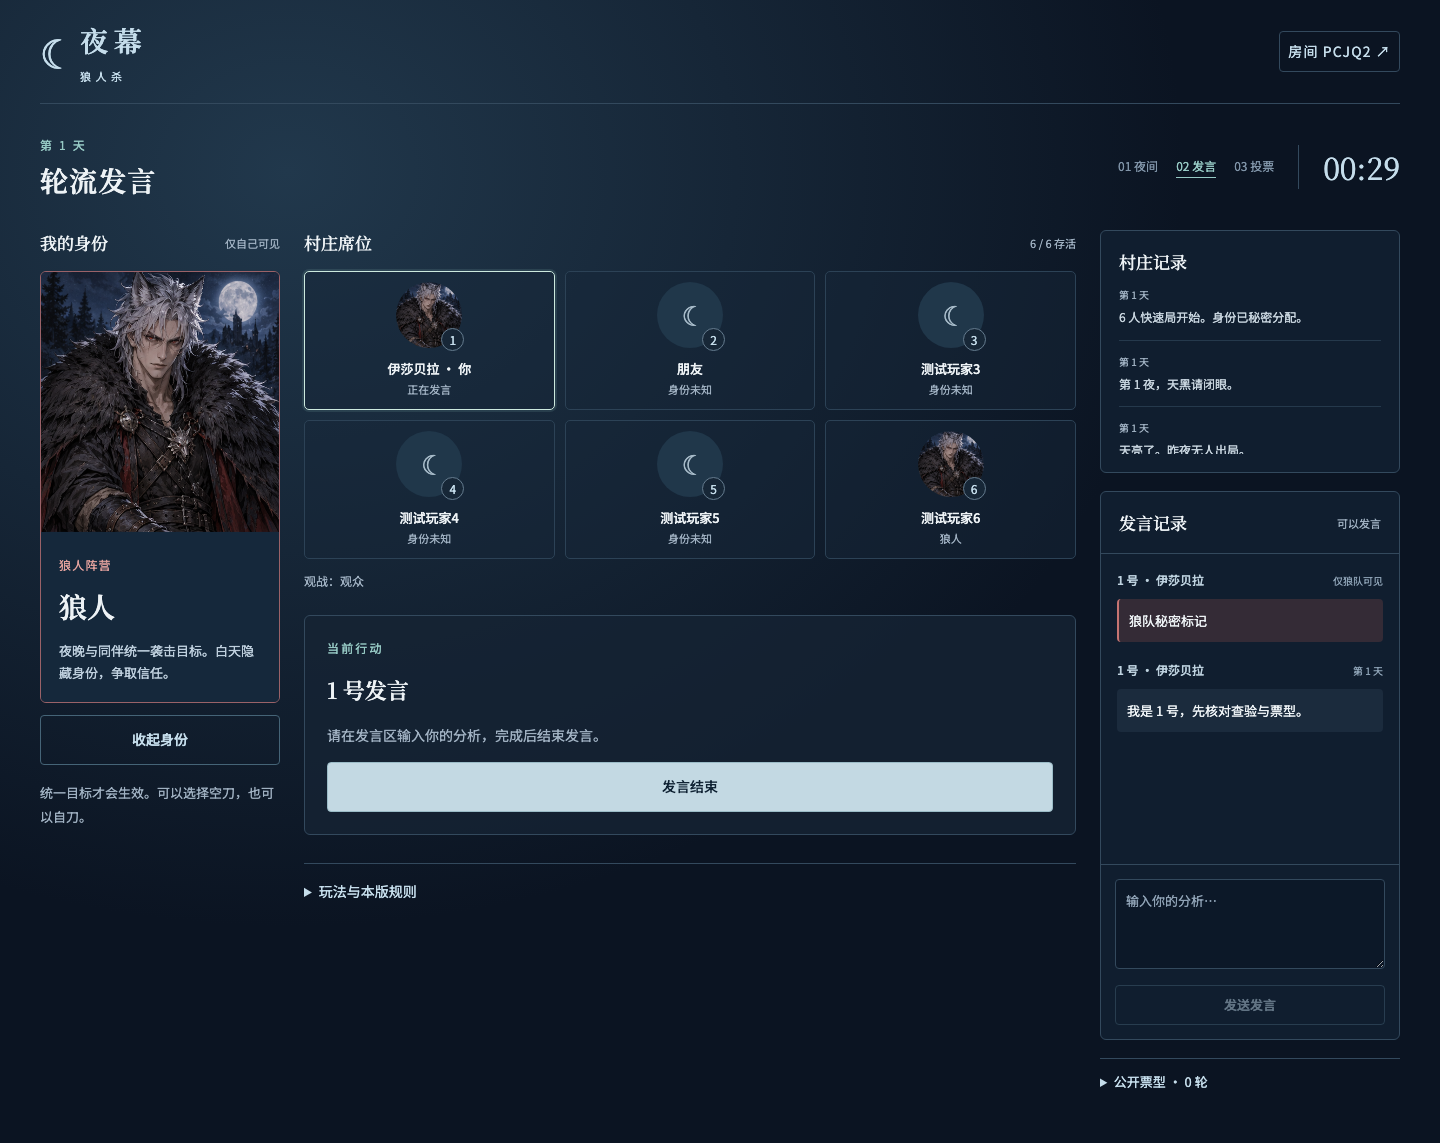
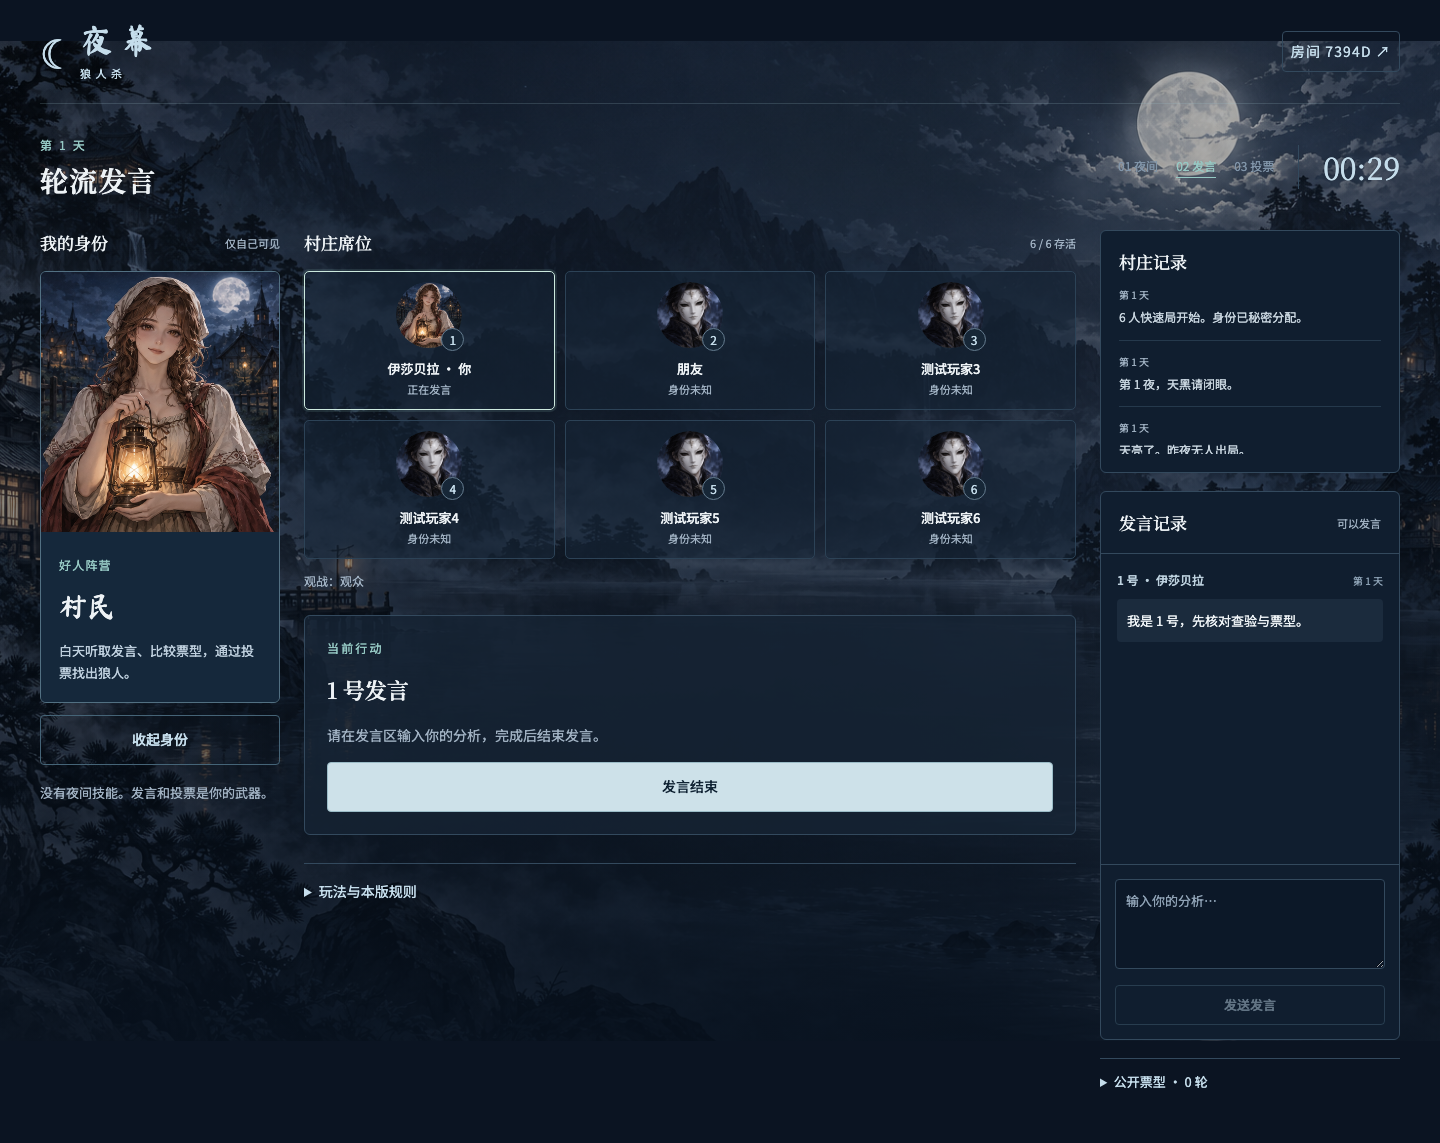
Refresh game screenshots for masked portraits and moonlit design

diff --git a/progress.md b/progress.md
@@ -9,3 +9,5 @@ Visual refinement requested: remove role dossier caption, fix stretched art, imp
 Validation: TypeScript passes. Browser checks all six roles, loaded local brush font, removed label, no mobile horizontal overflow or page errors. Desktop and 390px mobile screenshots inspected; development-game smoke screenshot inspected. Portraits remain undistorted and form text readable.
 
 Replaced the hidden-card and occupied unknown-seat moon placeholders with one generated masked human portrait. Revealed roles and empty-seat plus signs remain unchanged. TypeScript and browser create/fill lobby checks pass: card plus six portraits load, no page errors or mobile overflow. Desktop and phone screenshots inspected.
+
+Refreshed README screenshots from current local browser sessions: entry, masked lobby, discussion and mobile gameplay. All four images visually inspected. Full browser multiplayer flow passed again. Documentation-only update; production game unchanged.

diff --git a/README.md b/README.md
@@ -68,6 +68,14 @@ npm run build
 ## 界面预览
 
 ![角色入口](docs/screenshots/01-role-entry.png)
-![真实多人局中的发言阶段](docs/screenshots/02-discussion.png)
+![面具身份与多人大厅](docs/screenshots/04-masked-lobby.png)
+![多人测试局中的发言阶段](docs/screenshots/02-discussion.png)
+
+<details>
+<summary>手机界面</summary>
+
+<img src="docs/screenshots/03-mobile.png" alt="手机上的多人游戏界面" width="390" />
+
+</details>
 
 截图来自本地真实浏览器会话，示例房间号不作为长期可用邀请。
